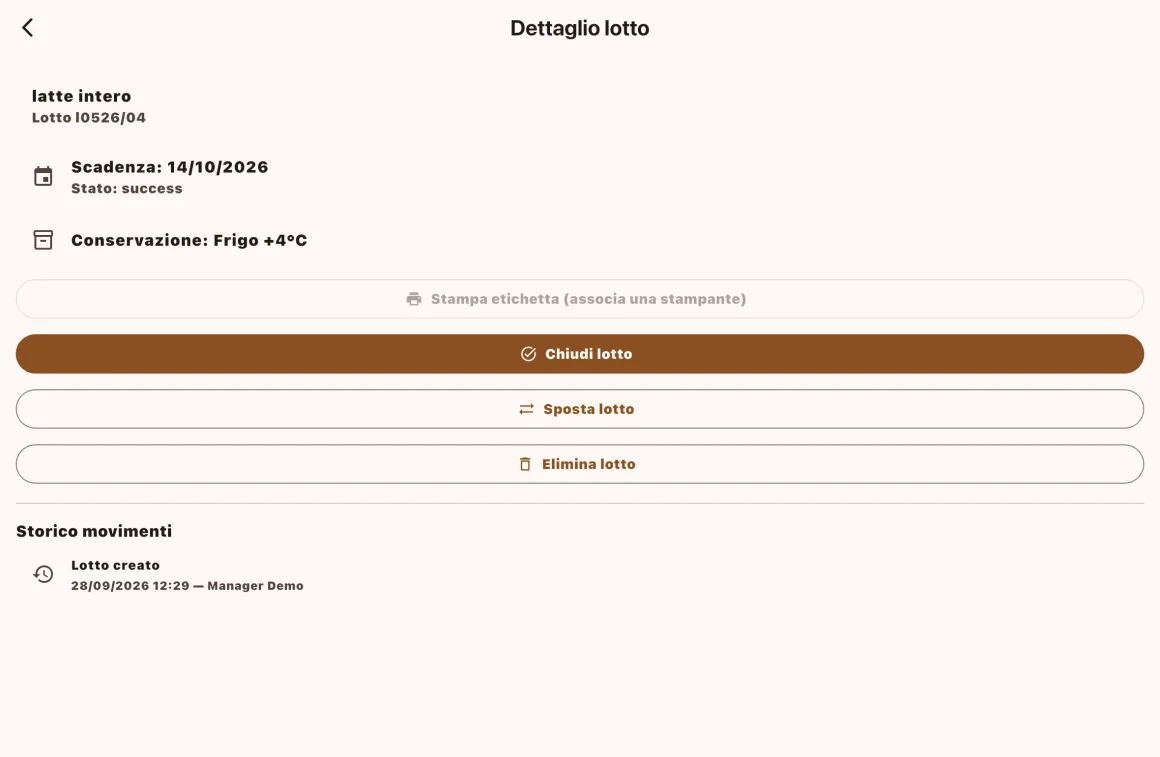
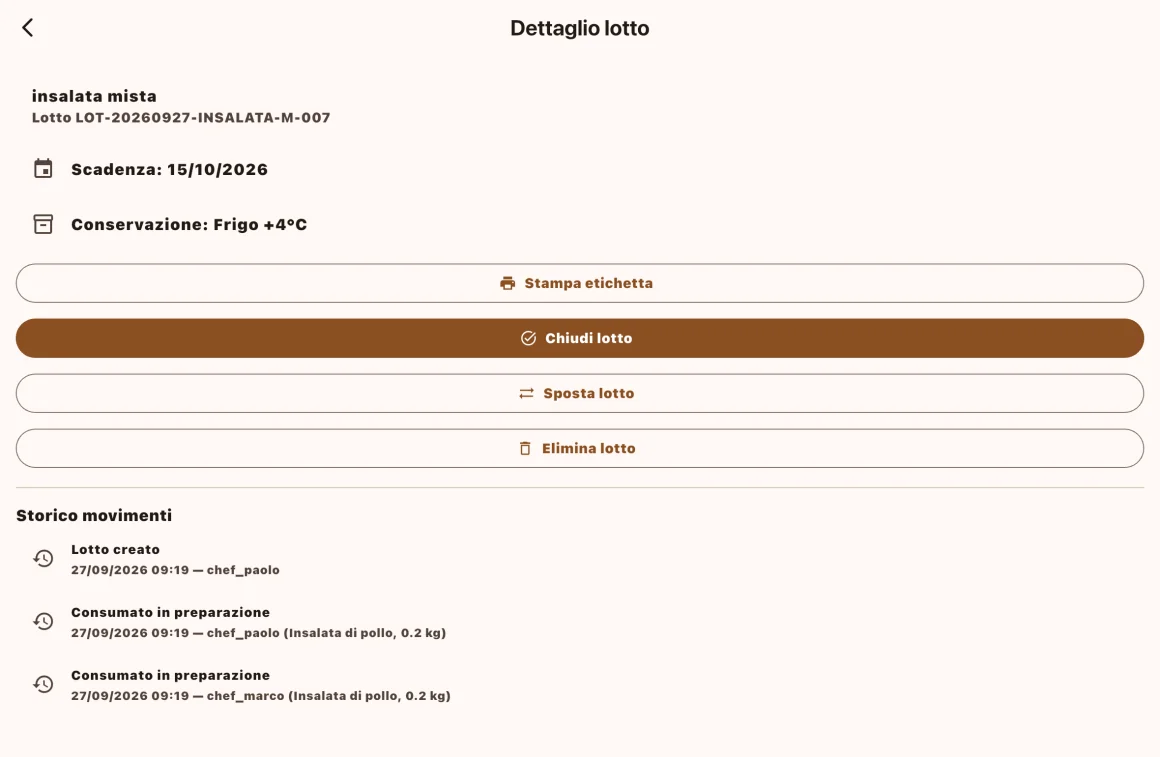
feat: nuovi screenshot dell'app e etichetta aggiornata nei passi di Come funziona

diff --git a/site/index.html b/site/index.html
@@ -137,7 +137,7 @@
         <div class="step step-lead">
           <div class="tablet">
             <img src="/img/passo-lotto-1160.webp" srcset="/img/passo-lotto-800.webp 800w, /img/passo-lotto-1160.webp 1160w, /img/passo-lotto-2360.webp 2360w" sizes="(max-width: 800px) calc(100vw - 32px), 720px" width="2360" height="1540" loading="lazy" decoding="async"
-                 alt="Schermata Dettaglio lotto dell'app su tablet: latte intero, lotto I0526/04, scadenza 14/10/2026, conservazione in frigo a +4 °C, con i pulsanti Chiudi lotto, Sposta lotto ed Elimina lotto e lo storico dei movimenti.">
+                 alt="Schermata Dettaglio lotto dell'app su tablet: insalata mista, scadenza 15/10/2026, conservazione in frigo a +4 °C, con i pulsanti Stampa etichetta, Chiudi lotto, Sposta lotto ed Elimina lotto e lo storico dei movimenti del lotto.">
           </div>
           <div>
             <h3>Registra il lotto all'arrivo</h3>
@@ -152,8 +152,8 @@
           <p>Per ogni preparazione l'app registra i lotti usati e calcola il TMC, il termine minimo di conservazione. L'etichetta HACCP esce dalla stampante già compilata.</p>
         </div>
         <div class="step">
-          <img class="crop" src="/img/passo-scadenze-700.webp" srcset="/img/passo-scadenze-700.webp 700w, /img/passo-scadenze-1400.webp 1400w" sizes="(max-width: 800px) calc(100vw - 32px), 560px" width="1400" height="410" loading="lazy" decoding="async"
-               alt="Elenco dei lotti nell'app: l'insalata di pollo preparata è segnata come Scaduto, l'insalata mista e il burro come In scadenza.">
+          <img class="crop" src="/img/passo-scadenze-700.webp" srcset="/img/passo-scadenze-700.webp 700w, /img/passo-scadenze-1400.webp 1400w" sizes="(max-width: 800px) calc(100vw - 32px), 560px" width="1400" height="545" loading="lazy" decoding="async"
+               alt="Elenco dei lotti nell'app: le uova e l'insalata di pollo preparata sono segnate come Scaduto, l'insalata mista come In scadenza, i pomodori non hanno segnalazioni.">
           <h3>Arriva l'ispezione? Sei già pronto.</h3>
           <p>Le notifiche ti avvisano prima che un lotto scada. Quando serve, il report PDF raccoglie lotti, scadenze, allergeni e movimenti del periodo.</p>
         </div>
